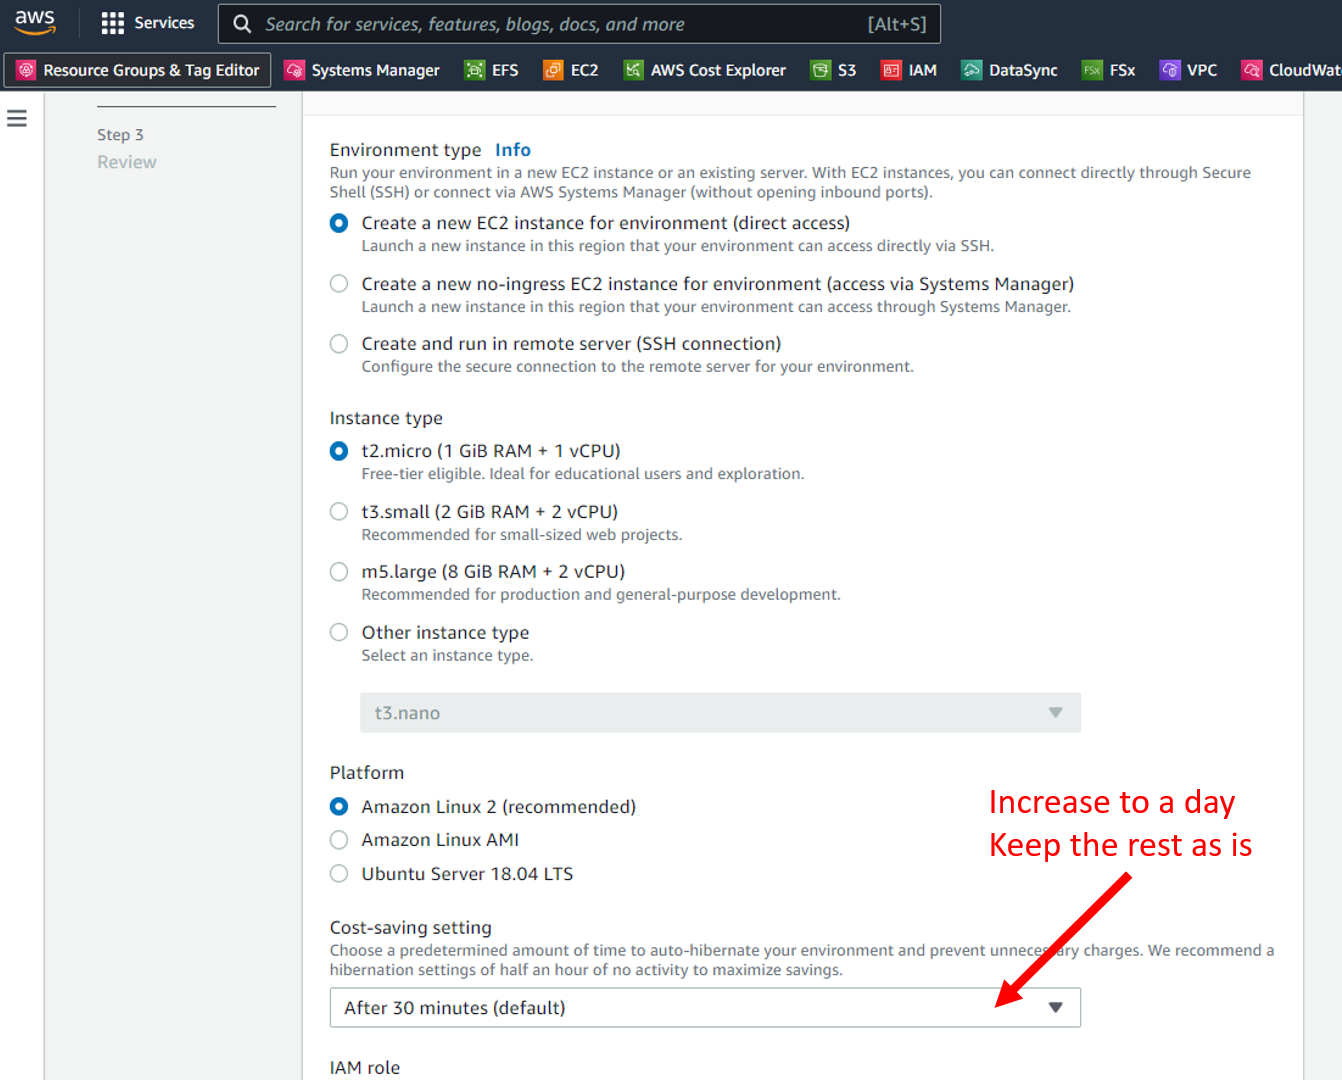
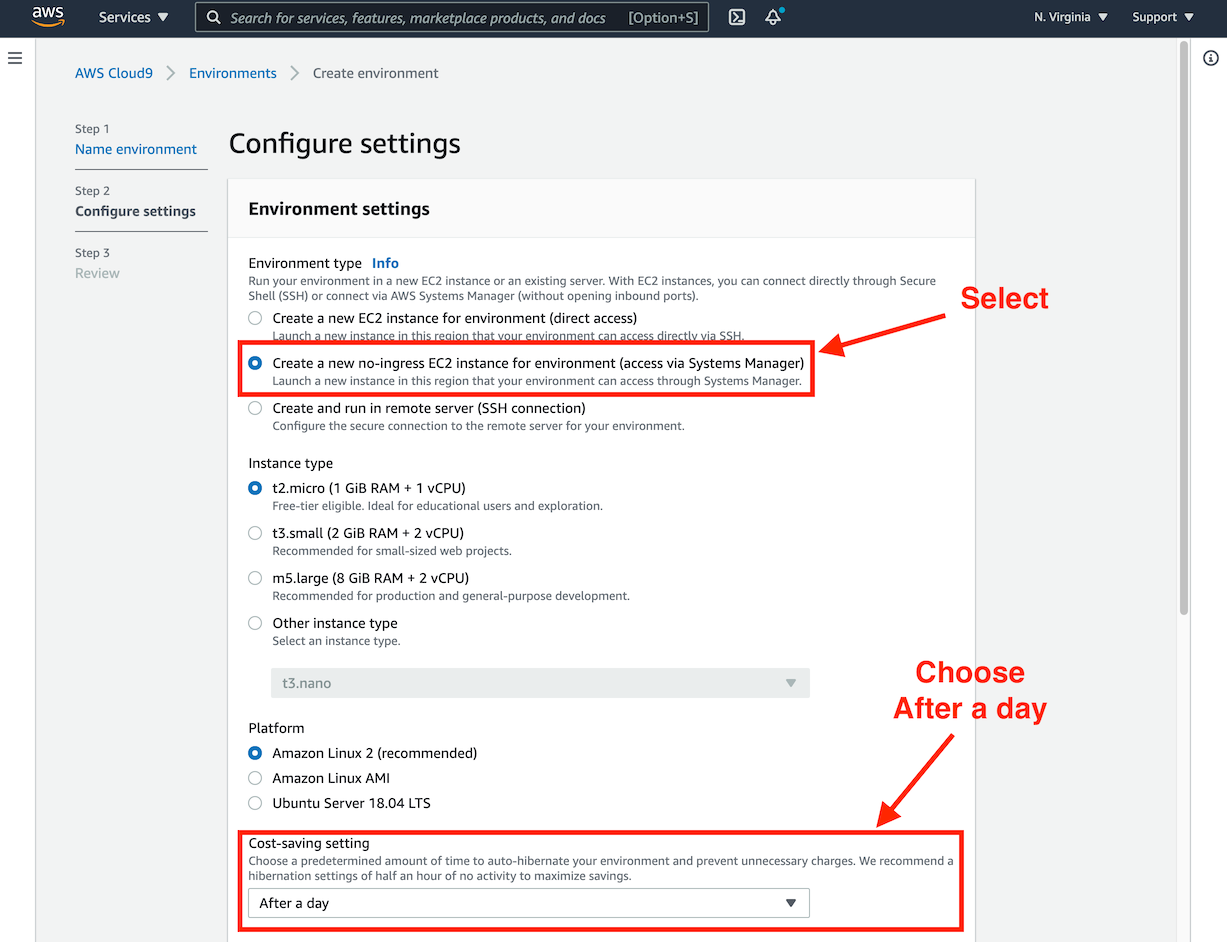
Change Cloud9 creation steps

diff --git a/content/02-preparation/04-start_cloud9.md b/content/02-preparation/04-start_cloud9.md
@@ -16,16 +16,16 @@ After accessing your IDE, take a moment to familiarize yourself with the Cloud9 
 
 These steps apply to both individual users of this workshop and those in a group setting. To access your IDE, follow these steps:
 
-1. In the AWS Management Console, locate **Cloud9** by using the search bar, or choose **Services**, then **Cloud9**.
-![Cloud 9](/images/preparation/cloud9-find.png)
-2. Choose **Create Environment**
-3. Name your environment **MyCloud9Env** and choose **Next Step**.
+1. Open the [AWS Cloud9 console](<https://console.aws.amazon.com/cloud9>).
+1. Choose **[Create Environment](<https://console.aws.amazon.com/cloud9/home/create>)**.
+1. For **Name**, enter **MyCloud9Env**.
+1. Choose **Next step**.
 ![Cloud 9](/images/preparation/cloud9-name.png)
-4. On the **Configure Settings** page, locate **Cost-saving setting** drop-down menu, and choose **After a day**. (Note: Your instructor may change other default selections.)
+1. Select **Create a new no-ingress EC2 instance for environment (access via Systems Manager)**.
+1. For **Cost-saving setting**, choose **After a day**. (Note: Your instructor may change other default selections.)
+1. Choose **Next step**.
 ![Cloud 9](/images/preparation/cloud9-defaults.png)
-5. Choose **Next Step**.
-6. Choose **Create Environment**.
-
-Your AWS Cloud9 instance will be ready in a few minutes!
+1. Choose **Create Environment**.
+1. It will start the creation of the **AWS Cloud9 environment** that will be ready in a few minutes!
 
 ![Cloud9 Create](/images/preparation/cloud9-create.png)
